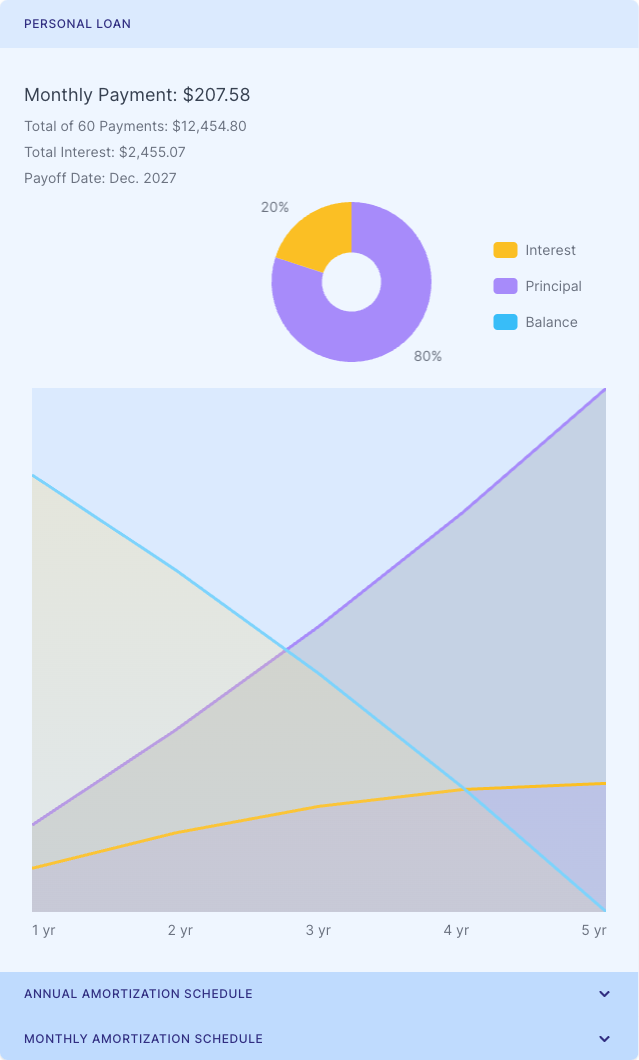
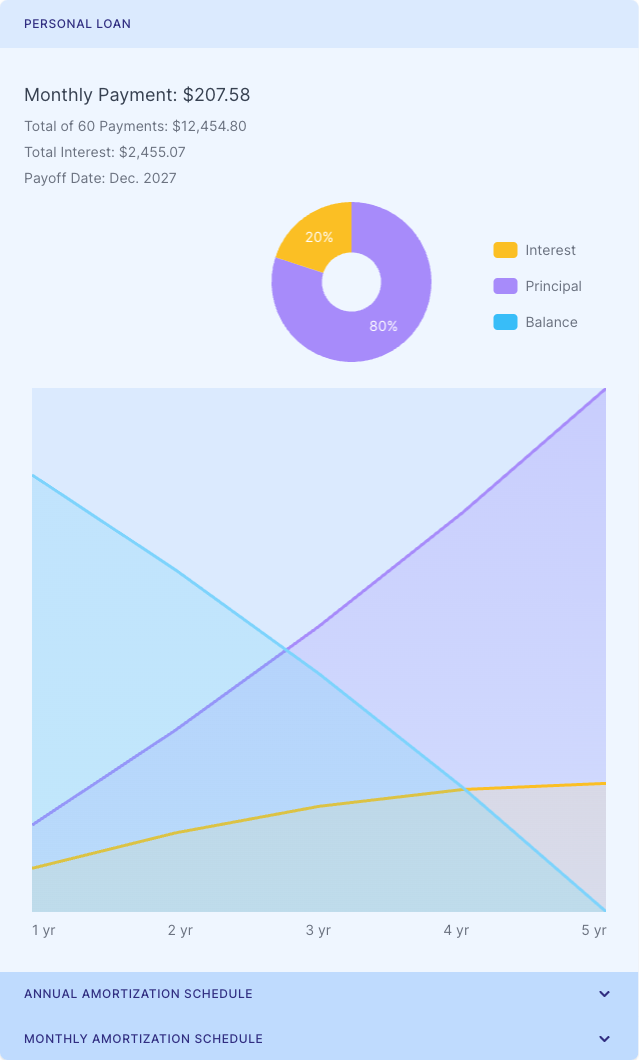
calculator changes commit

diff --git a/assets/js/chart.js b/assets/js/chart.js
@@ -22,6 +22,7 @@ import("./assets/js/lib/chartjs/chart.js").then((e) => {
 			tealGradientStart: 'rgba(56, 248, 222, 0.16)',
 			yellowGradientStop: 'rgba(250, 219, 139, 0)',
 			purpleGradientStop: 'rgba(104, 56, 248, 0)',
+			skyGradientStop: 'rgba(56, 248, 222, 0.16)',
 			gridColor: '#DBEAFE',
 			tooltipBackground: '#fff',
 			fractionColor: '#EDE9FE',
@@ -38,6 +39,7 @@ import("./assets/js/lib/chartjs/chart.js").then((e) => {
 			tealGradientStart: 'rgba(56, 248, 222, 0.16)',
 			yellowGradientStop: 'rgba(250, 219, 139, 0)',
 			purpleGradientStop: 'rgba(104, 56, 248, 0)',
+			skyGradientStop: 'rgba(56, 248, 222, 0.16)',
 			gridColor: '#162B64',
 			tooltipBackground: '#1C3782',
 			fractionColor: '#41467D',
@@ -84,17 +86,12 @@ import("./assets/js/lib/chartjs/chart.js").then((e) => {
 			data.datasets[0].data.forEach((datapoint, index) => {
 				const { x, y } = chart.getDatasetMeta(0).data[index].tooltipPosition();
 
-				let textXPosition = x >= 110 ? 'left' : 'right';
-
-				let xLine = x >= 110 ? x + 30 : x - 30;
-				let yLine = y >= 110 ? y + 30 : y - 30;
-
+				ctx.textAlign = 'center';
 				ctx.font = '14px Inter';
-				ctx.textAlign = textXPosition;
-				ctx.fillStyle = colors[theme].textColor;
+				ctx.fillStyle = '#fff';
 				ctx.textBaseline = 'middle';
-
-				ctx.fillText(`${datapoint}%`, xLine, yLine);
+				let toolTipText = datapoint != '0' ? datapoint + '%' : '';
+				ctx.fillText(toolTipText, x, y);
 			});
 		},
 	};
@@ -124,17 +121,12 @@ import("./assets/js/lib/chartjs/chart.js").then((e) => {
 				data.datasets[0].data.forEach((datapoint, index) => {
 					const { x, y } = chart.getDatasetMeta(0).data[index].tooltipPosition();
 
-					let textXPosition = x >= 110 ? 'left' : 'right';
-
-					let xLine = x >= 110 ? x + 30 : x - 30;
-					let yLine = y >= 110 ? y + 30 : y - 30;
-
+					ctx.textAlign = 'center';
 					ctx.font = '14px Inter';
-					ctx.textAlign = textXPosition;
-					ctx.fillStyle = colors[theme].textColor;
+					ctx.fillStyle = '#fff';
 					ctx.textBaseline = 'middle';
-
-					ctx.fillText(`${datapoint}%`, xLine, yLine);
+					let toolTipText = datapoint != '0' ? datapoint + '%' : '';
+					ctx.fillText(toolTipText, x, y);
 				});
 			},
 		};
@@ -148,7 +140,7 @@ import("./assets/js/lib/chartjs/chart.js").then((e) => {
 			plugins: [customDataLabels],
 		});
 
-		donutBig.data.datasets[0].backgroundColor = [colors[theme].purple, colors[theme].sky, colors[theme].yellow];
+		donutBig.data.datasets[0].backgroundColor = [colors[theme].purple, colors[theme].yellow];
 		donutBig.update()
 	}
 
@@ -163,6 +155,10 @@ import("./assets/js/lib/chartjs/chart.js").then((e) => {
 	let purpleGradient = ctx.createLinearGradient(0, 0, 0, 1024);
 	purpleGradient.addColorStop(0, colors[theme].purpleGradientStart);
 	purpleGradient.addColorStop(1, colors[theme].purpleGradientStop);
+
+	let skyGradient = ctx.createLinearGradient(0, 0, 0, 1024);
+	skyGradient.addColorStop(0, colors[theme].skyGradientStart);
+	skyGradient.addColorStop(1, colors[theme].skyGradientStop);
 
 	let tooltip = {
 		enabled: false,
@@ -255,7 +251,7 @@ import("./assets/js/lib/chartjs/chart.js").then((e) => {
 				pointHoverBorderColor: '#5045E5',
 				stacked: true,
 				borderColor: colors[theme].sky,
-				backgroundColor: yellowGradient,
+				backgroundColor: skyGradient,
 				fill: true,
 			},
 			{
@@ -276,7 +272,7 @@ import("./assets/js/lib/chartjs/chart.js").then((e) => {
 				stack: 'combined',
 				stacked: true,
 				borderColor: colors[theme].yellow,
-				backgroundColor: purpleGradient,
+				backgroundColor: yellowGradient,
 				fill: true,
 			},
 			{
@@ -294,9 +290,9 @@ import("./assets/js/lib/chartjs/chart.js").then((e) => {
 				pointHoverBorderWidth: 2,
 				pointHoverRadius: 6,
 				pointHoverBorderColor: '#5045E5',
-				stack: 'combined',
 				stacked: true,
 				borderColor: colors[theme].purple,
+				backgroundColor: purpleGradient,
 				fill: true,
 			},
 		],
@@ -359,11 +355,12 @@ import("./assets/js/lib/chartjs/chart.js").then((e) => {
 			yellowGradient.addColorStop(1, colors[theme].yellowGradientStop);
 			purpleGradient.addColorStop(0, colors[theme].purpleGradientStart);
 			purpleGradient.addColorStop(1, colors[theme].purpleGradientStop);
-			chartLoan.data.datasets[0].backgroundColor = yellowGradient;
-			chartLoan.data.datasets[0].borderColor = colors[theme].yellow;
-			chartLoan.data.datasets[1].backgroundColor = purpleGradient;
-			chartLoan.data.datasets[1].borderColor = colors[theme].purple;
-			chartLoan.data.datasets[2].backgroundColor = colors[theme].sky;
+			chartLoan.data.datasets[1].backgroundColor = yellowGradient;
+			chartLoan.data.datasets[1].borderColor = colors[theme].yellow;
+			chartLoan.data.datasets[2].backgroundColor = purpleGradient;
+			chartLoan.data.datasets[2].borderColor = colors[theme].purple;
+			chartLoan.data.datasets[0].backgroundColor = skyGradient;
+			chartLoan.data.datasets[0].borderColor = colors[theme].sky;
 			chartLoan.options.scales.y.grid.color = colors[theme].gridColor;
 			chartLoan.options.scales.x.grid.color = colors[theme].gridColor;
 			chartLoan.options.scales.y.ticks.color = colors[theme].gridColor;

diff --git a/assets/js/all-calculators.js b/assets/js/all-calculators.js
@@ -517,7 +517,7 @@ var allCalculators = [
     },
     {
         "title": "Work Hours Calculator",
-        "description": "Work hours calculator helps employees accurately calculate the number of hours worked each week with settings to account for breaks, hourly rounding, and military time. ",
+        "description": "Work hours calculator helps employees accurately calculate the number of hours worked each week with settings to account for breaks, hourly rounding, and military time.",
         "uri": "/work-hours-calculator/",
         "image": "../images/icon-96.png"
     },
@@ -528,7 +528,7 @@ var allCalculators = [
         "image": "../images/icon-96.png"
     },
     {
-        "title": "Fraction to percent calculator",
+        "title": "Fraction to Percent Calculator",
         "description": "Fraction to percent calculator converts proper and improper fractions to percentages. Calculator is using fraction-decimal-percent algorithm.",
         "uri": "/fraction-to-percent-calculator/",
         "image": "../images/icon-96.png"
@@ -723,6 +723,12 @@ var allCalculators = [
         "title": "Margin Calculator",
         "description": "Free margin calculator using the margin formula ((R - C) / R) × 100 to help businesses quickly calculate both margin and markup percentages based on cost and sale price.",
         "uri": "/margin-calculator/",
+        "image": "../images/icon-96.png"
+    },
+    {
+        "title": "Pace Calculator",
+        "description": "This free pace calculator computes pace, distance and time by setting values of two variables. You can use it for training purposes.",
+        "uri": "/pace-calculator/",
         "image": "../images/icon-96.png"
     },
     {
